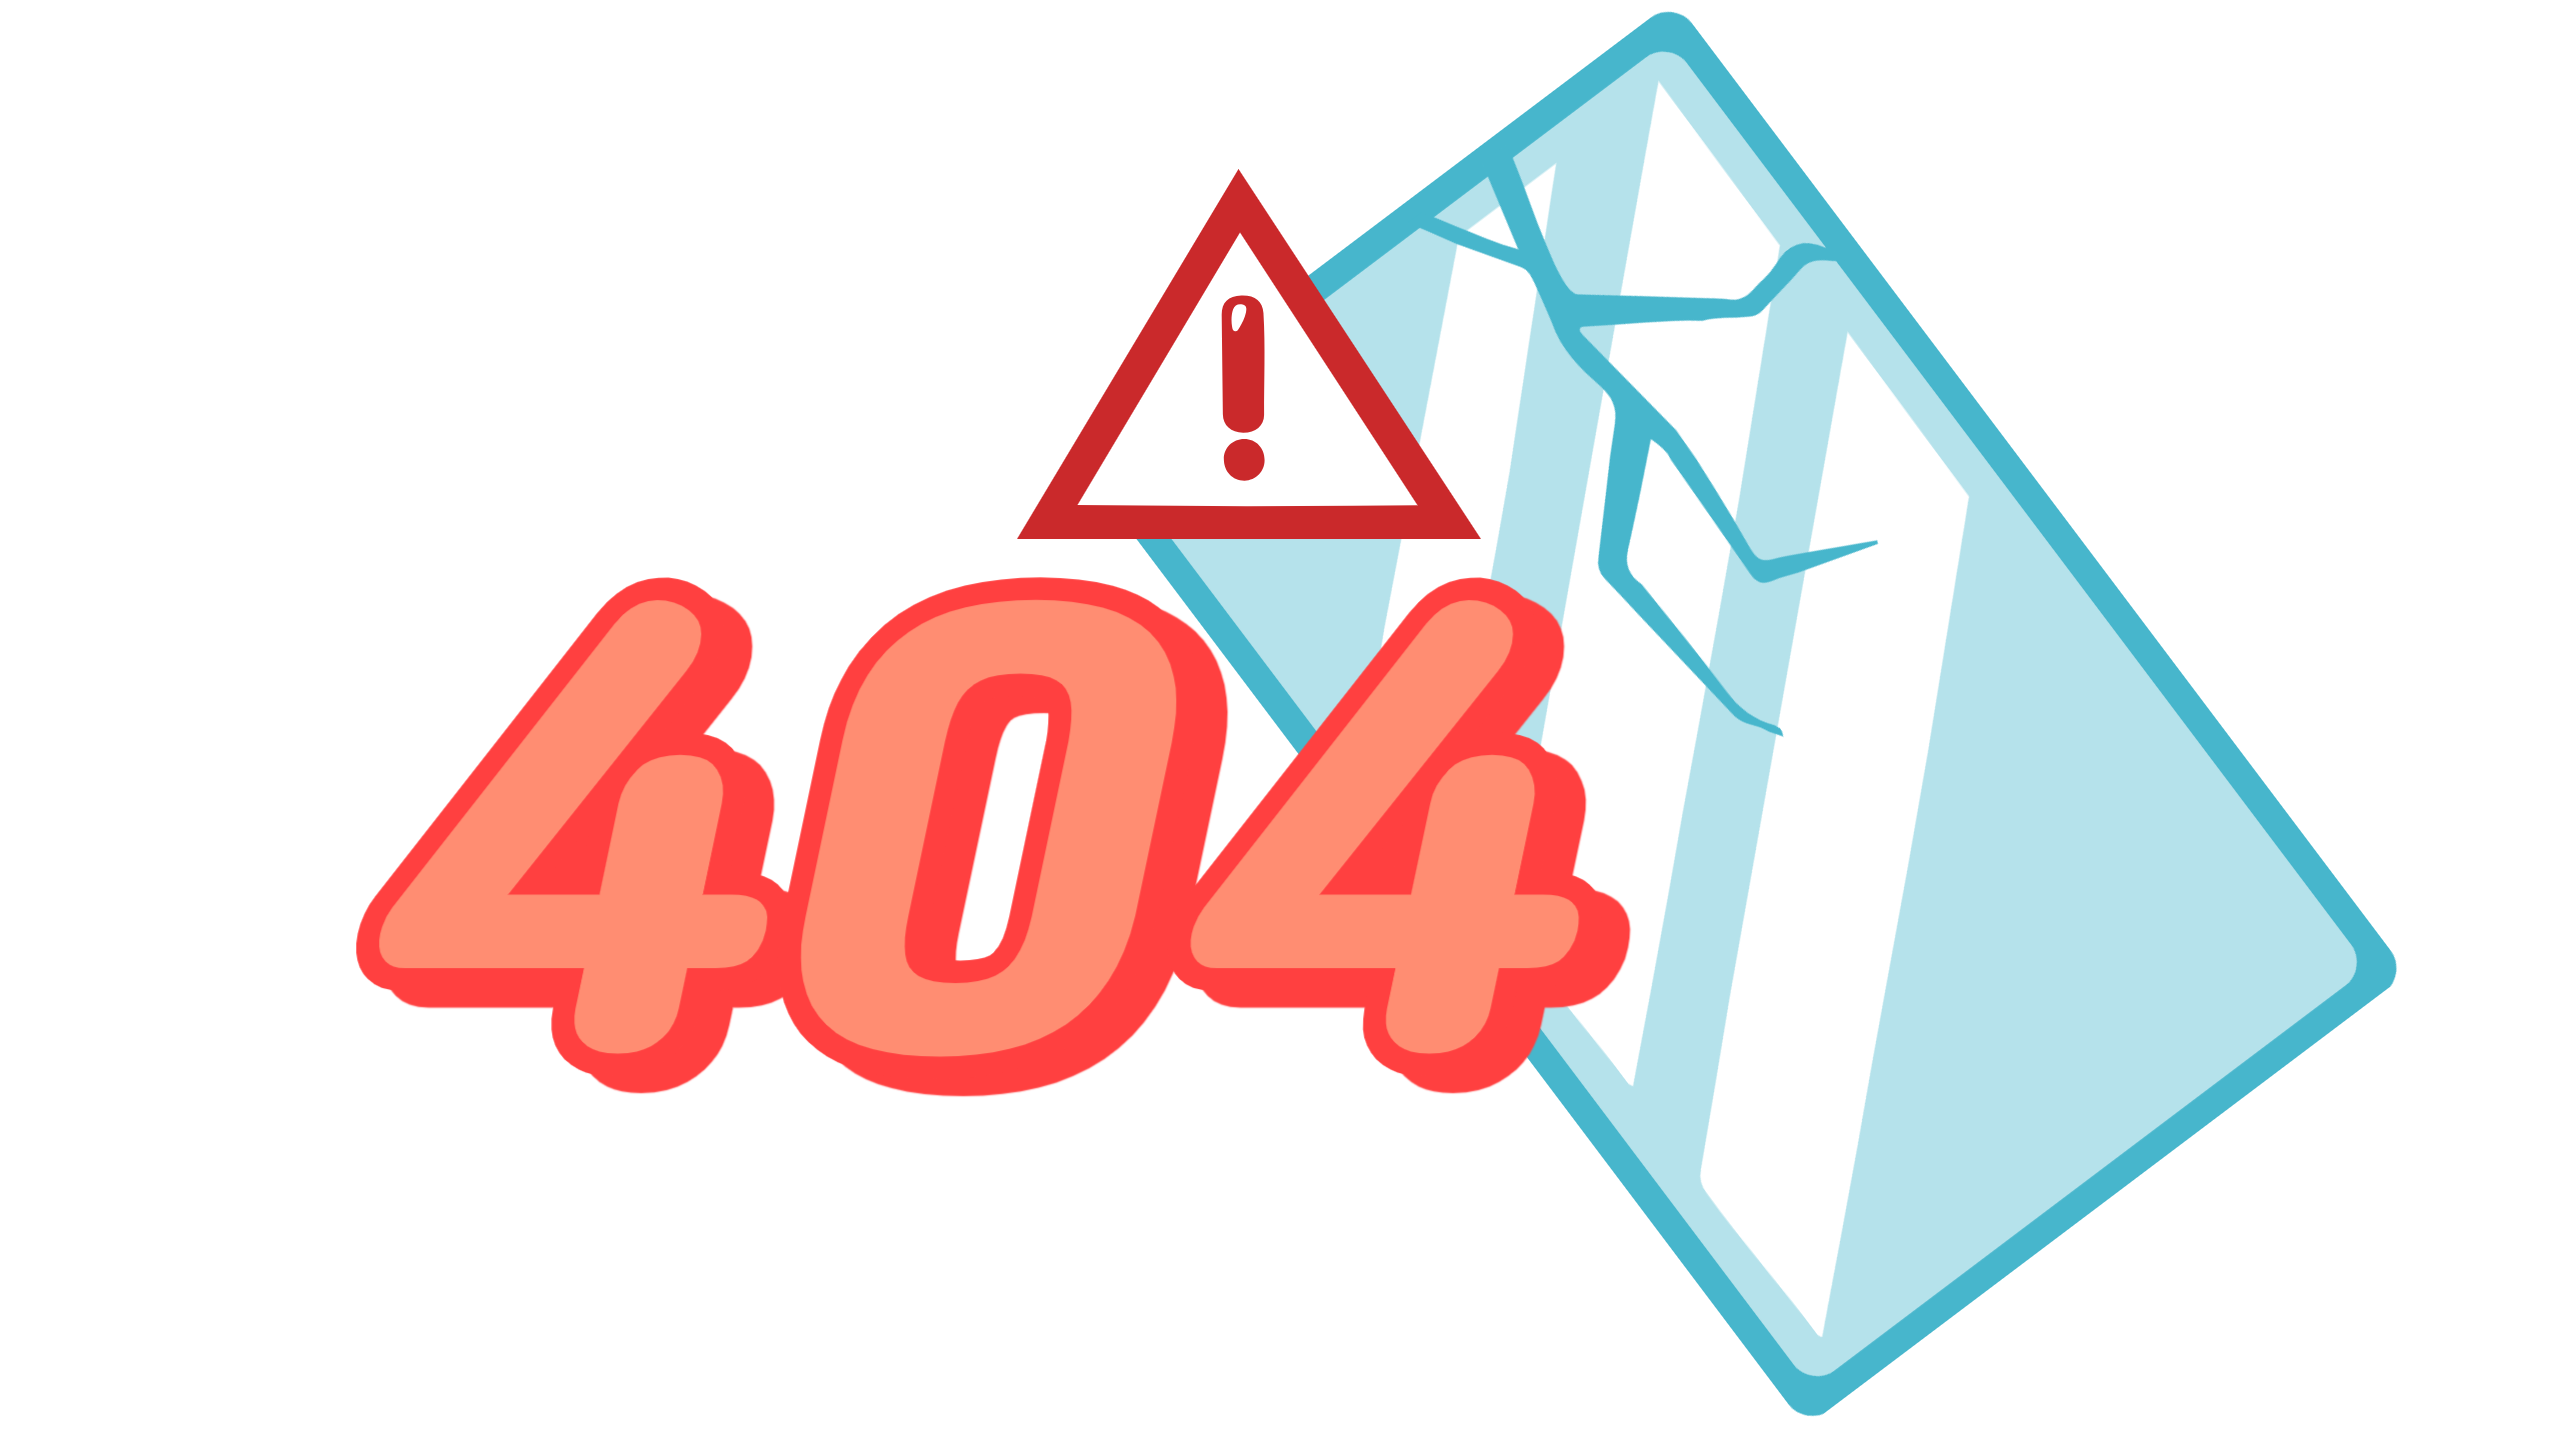
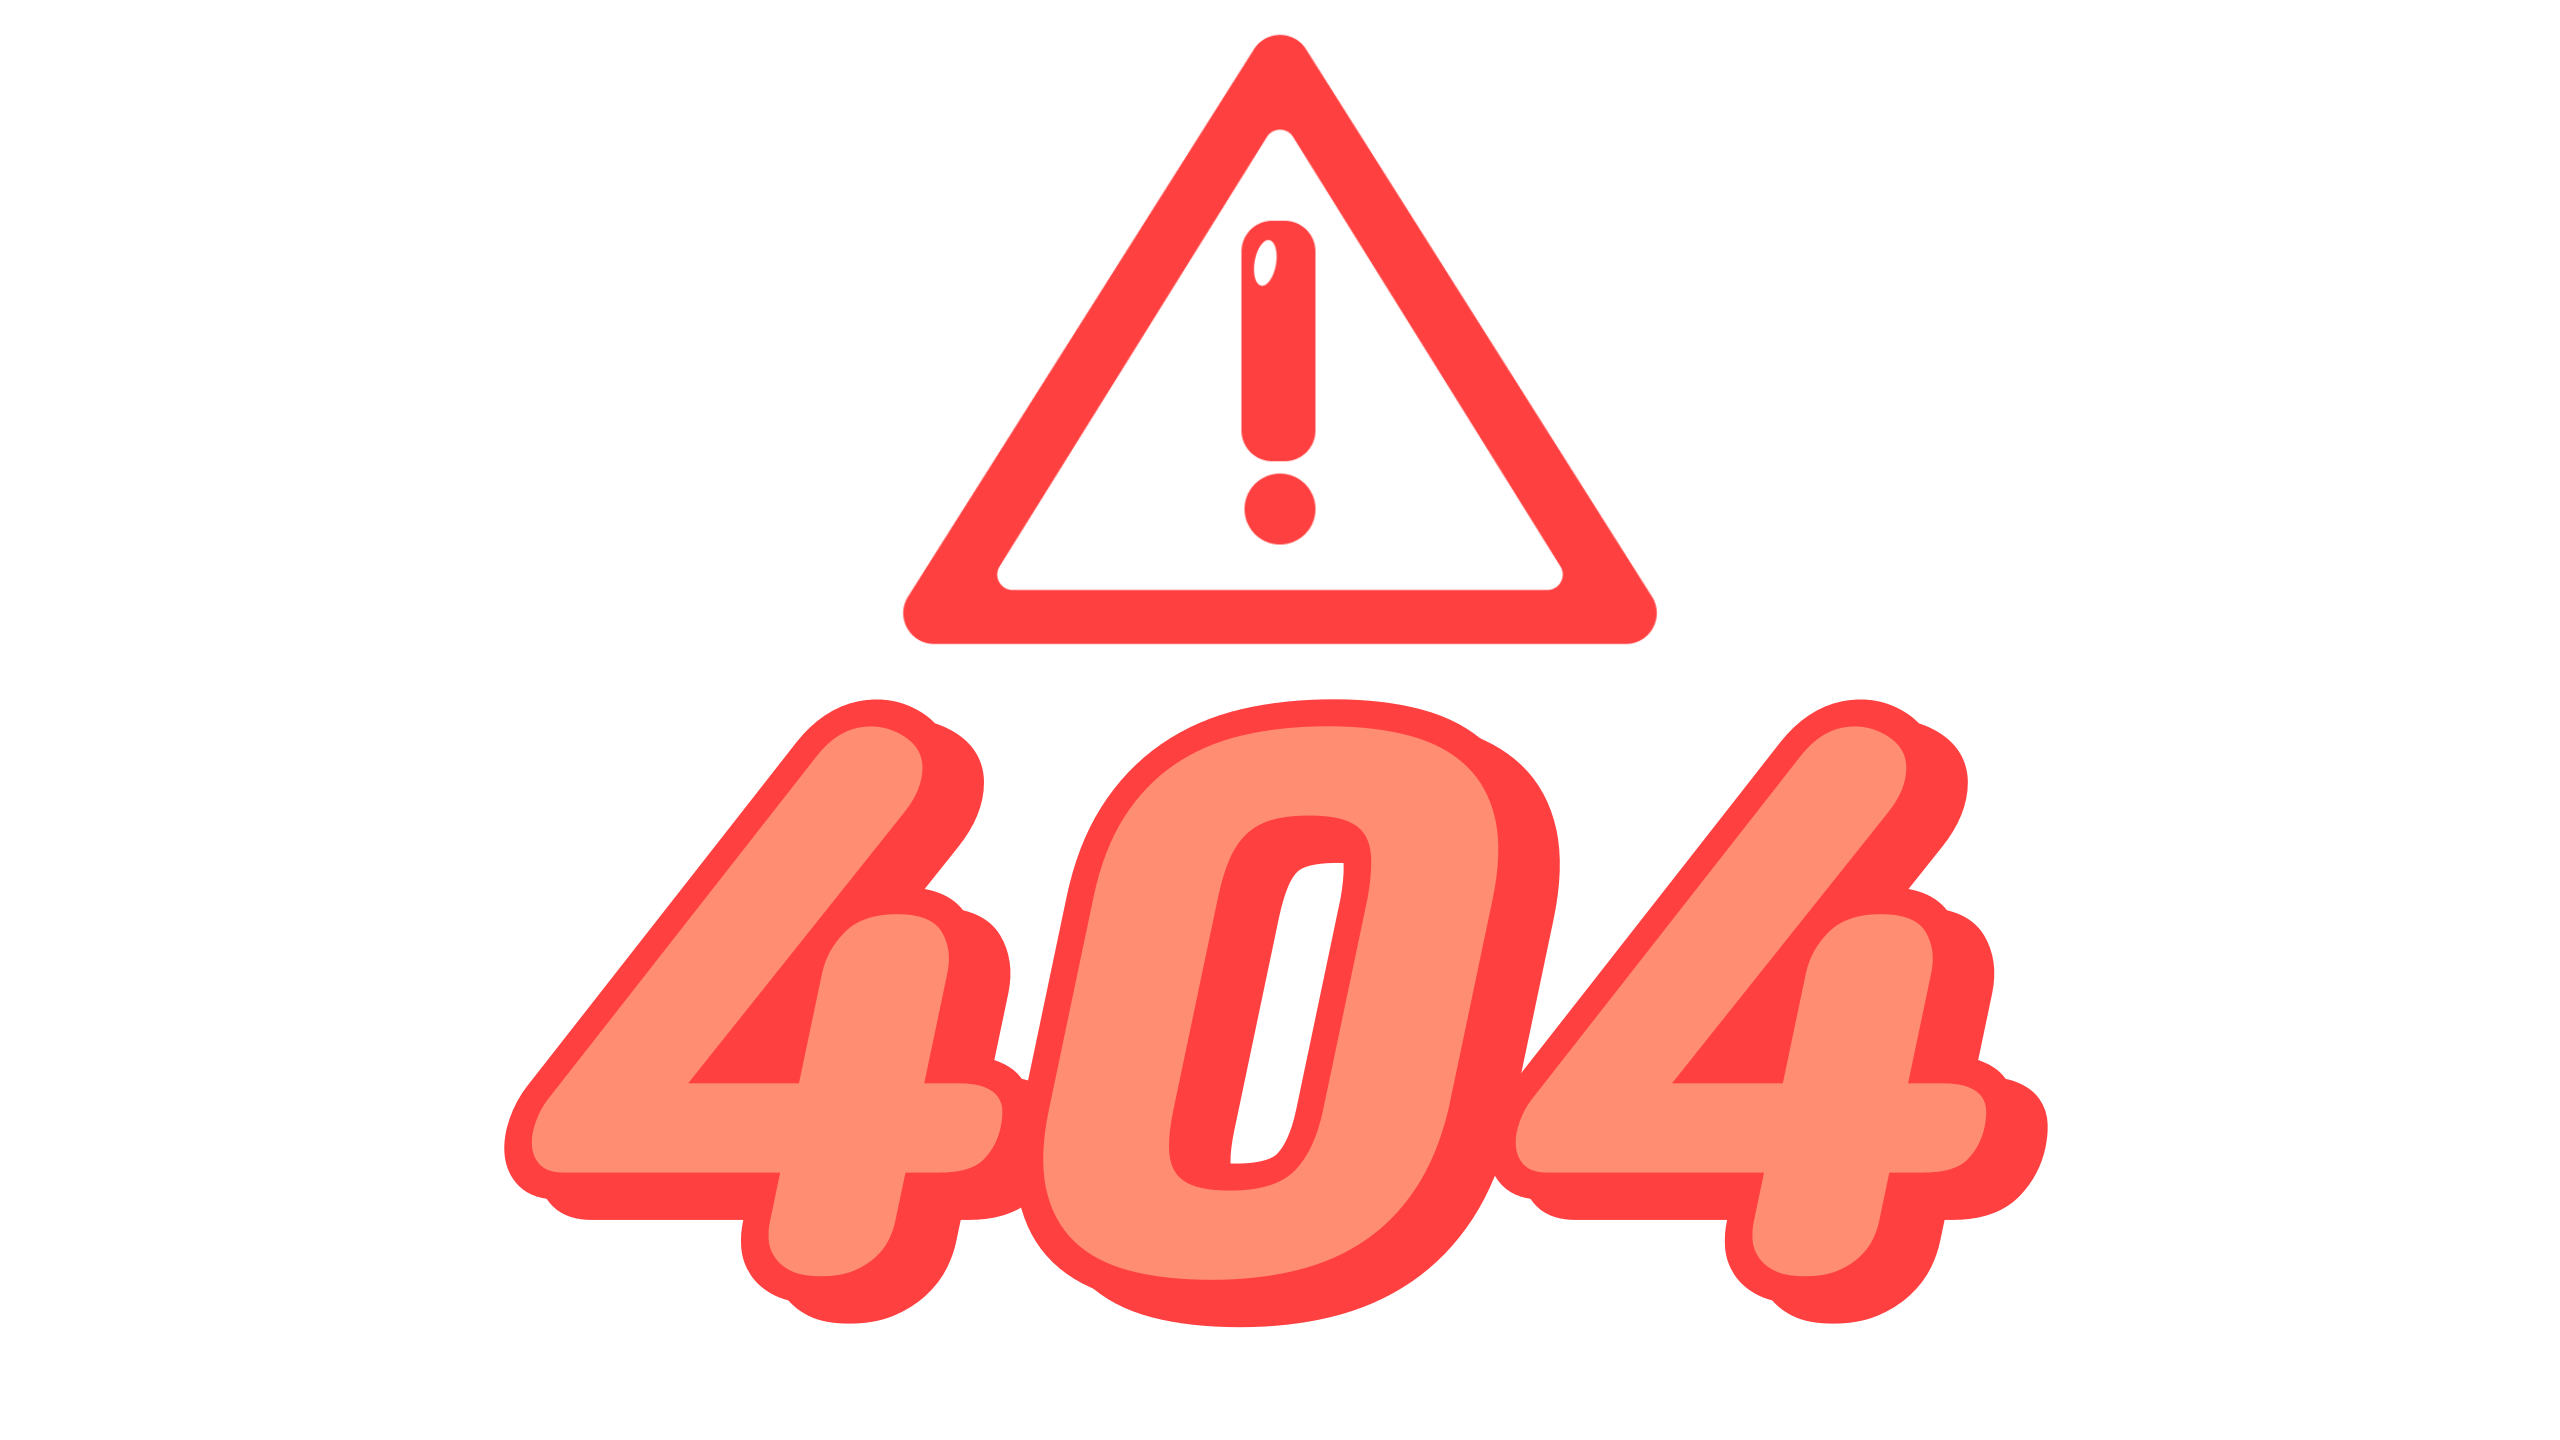
♻ refactor: 404페이지 아이콘 변경 및 버튼 변경

diff --git a/app/not-found.tsx b/app/not-found.tsx
@@ -9,7 +9,7 @@ export default function NotFound() {
   return (
     <>
       <div className="base-container">
-        <div className="mt-40 flex flex-col items-center justify-center">
+        <div className="mt-10 flex flex-col items-center justify-center">
           <Image alt="404" src={errorImage} width={600} />
           <h1 className="pt-4 font-bold text-2xl">
             페이지가 없거나 접근할 수 없어요
@@ -18,7 +18,7 @@ export default function NotFound() {
           <LinkButton
             href="/notice-list"
             btnColor="orange"
-            className="w-[200px]"
+            className="w-fit px-12 md:px-20"
           >
             홈으로 가기
           </LinkButton>
